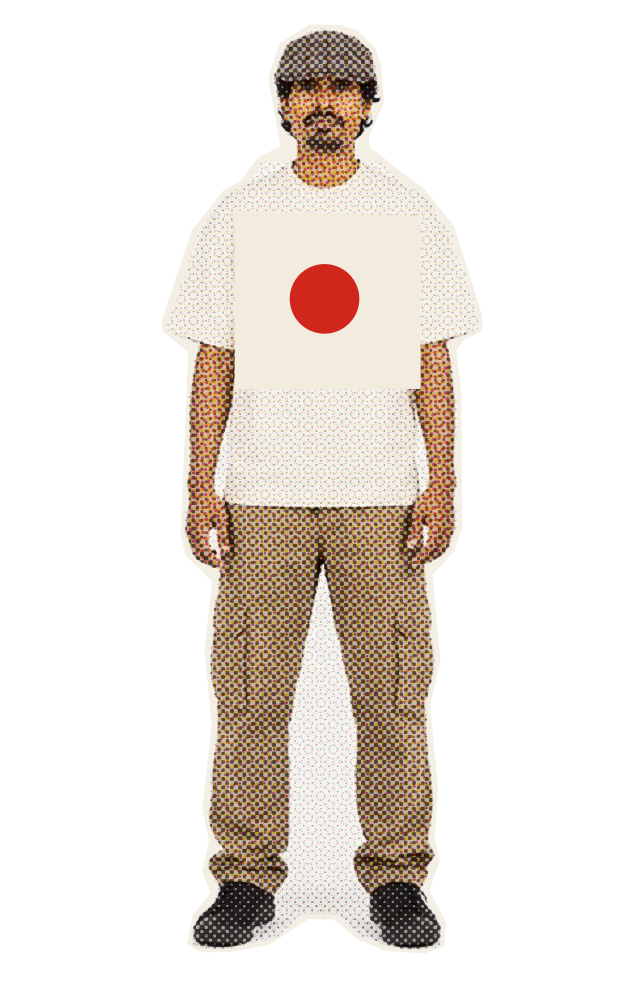
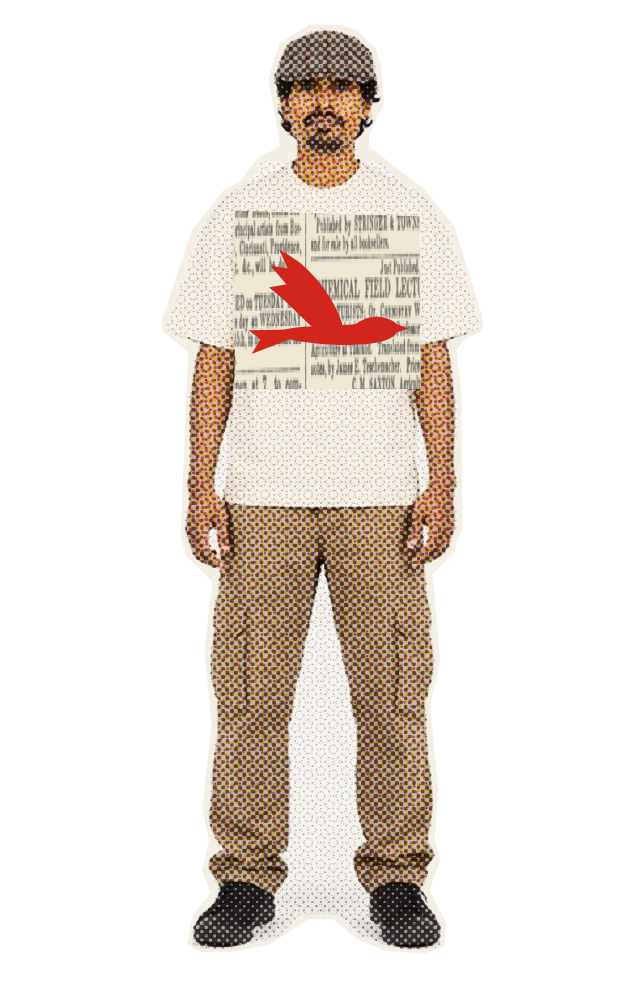
মানবতার ডাক: T-shirt patch is now a red paper dove on newsprint (no flag look)
Claude-Session: https://claude.ai/code/session_01X3TrwjtHZ1vJ66J9RDhCyK

Changed region(s): [[0.3427, 0.2132, 0.6542, 0.3959]]

diff --git a/films/30-manobotar-dak/work/hero.py b/films/30-manobotar-dak/work/hero.py
@@ -74,16 +74,32 @@ def main(path):
         b = panel(sheet, RIG[box], 1.6 if name != 'hero_profile' else up)
         bl = grab(b, (0.05, 0.01, 0.95, 0.995), fg=[(0.4, 0.15, 0.6, 0.85)])
         bc = halftone_cmyk(b, 6.0, 0.5, sat=1.05)
-        if name == 'hero_body':                                     # brand print on the T-shirt -> torn paper patch + red sun
+        if name == 'hero_body':                                     # brand print on the T-shirt -> torn newsprint patch + red paper dove
             x0, y0, x1, y1 = RIG['logo']; Hb, Wb = b.shape[:2]
             rng = np.random.default_rng(9)
             pts = [(x0 * Wb + rng.uniform(-6, 6), y0 * Hb + rng.uniform(-6, 6)), (x1 * Wb + rng.uniform(-6, 6), y0 * Hb + rng.uniform(-6, 6)),
                    (x1 * Wb + rng.uniform(-6, 6), y1 * Hb + rng.uniform(-6, 6)), (x0 * Wb + rng.uniform(-6, 6), y1 * Hb + rng.uniform(-6, 6))]
             pm = poly_mask(Hb, Wb, pts)[..., None]
-            bc = bc * (1 - pm) + np.array([0.95, 0.925, 0.87], np.float32) * pm
-            cx, cy, rr = (x0 + x1) / 2 * Wb, (y0 + y1) / 2 * Hb, min(x1 - x0, y1 - y0) * min(Wb, Hb) * 0.32 * (Hb / Wb if Hb < Wb else 1)
-            yy, xx = np.mgrid[0:Hb, 0:Wb]
-            dm = np.clip(rr + 0.5 - np.hypot(xx - cx, yy - cy), 0, 1)[..., None]
+            news = np.asarray(Image.open(os.path.join(os.path.dirname(OUT.rstrip('/')), '../../06-collage/assets/gen/news_a.png')).convert('RGB')).astype(np.float32) / 255
+            news = resize(news[60:60 + int(news.shape[1] * Hb / Wb * 0.6), 40:], Wb, Hb)
+            news = 0.55 * news + 0.45 * np.array([0.95, 0.925, 0.87], np.float32)
+            bc = bc * (1 - pm) + news * pm
+            # red cut-paper dove (same silhouette as the film's doves), centred on the patch
+            cx, cy = (x0 + x1) / 2 * Wb, (y0 + y1) / 2 * Hb + 4
+            sc = (x1 - x0) * Wb / 260
+            def bez(p0, p1, p2, p3, n=12):
+                tt = np.linspace(0, 1, n)[:, None]
+                return ((1 - tt) ** 3 * p0 + 3 * (1 - tt) ** 2 * tt * p1 + 3 * (1 - tt) * tt ** 2 * p2 + tt ** 3 * p3).tolist()
+            A = np.array
+            body = [[98, -14], [112, -9], [97, -4]] + bez(A([97, -4]), A([92, 6]), A([70, 12]), A([46, 13])) + bez(A([46, 13]), A([16, 15]), A([-22, 12]), A([-52, 6])) \
+                + [[-104, 26], [-92, 6], [-108, -6], [-60, -7]] + bez(A([-60, -7]), A([-26, -15]), A([18, -11]), A([40, -15])) + bez(A([40, -15]), A([56, -27]), A([80, -30]), A([98, -14]))
+            wing = [[22, -12]] + bez(A([22, -12]), A([6, -62]), A([-30, -100]), A([-66, -118])) + [[-54, -92], [-78, -96], [-56, -70], [-80, -66]] \
+                + bez(A([-80, -66]), A([-48, -40]), A([-30, -18]), A([-14, -6]))
+            dm = np.zeros((Hb, Wb), np.float32)
+            for poly in (body, wing):
+                q = [(cx + (px + 4) * sc, cy + (py + 45) * sc) for px, py in poly]
+                dm = np.maximum(dm, poly_mask(Hb, Wb, q))
+            dm = dm[..., None]
             bc = bc * (1 - dm) + np.array([0.82, 0.15, 0.11], np.float32) * dm
         save(name, sticker(np.dstack([bc, bl]), r=5, seed=seed))
     json.dump(layout, open(OUT + 'layout.json', 'w'), indent=1)
